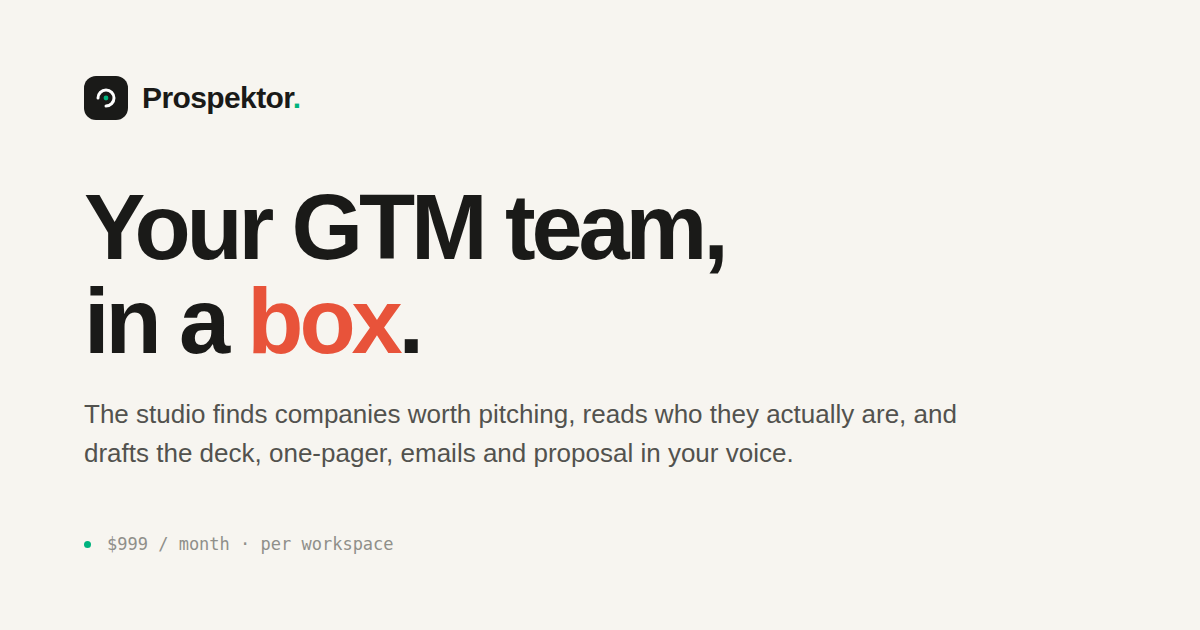
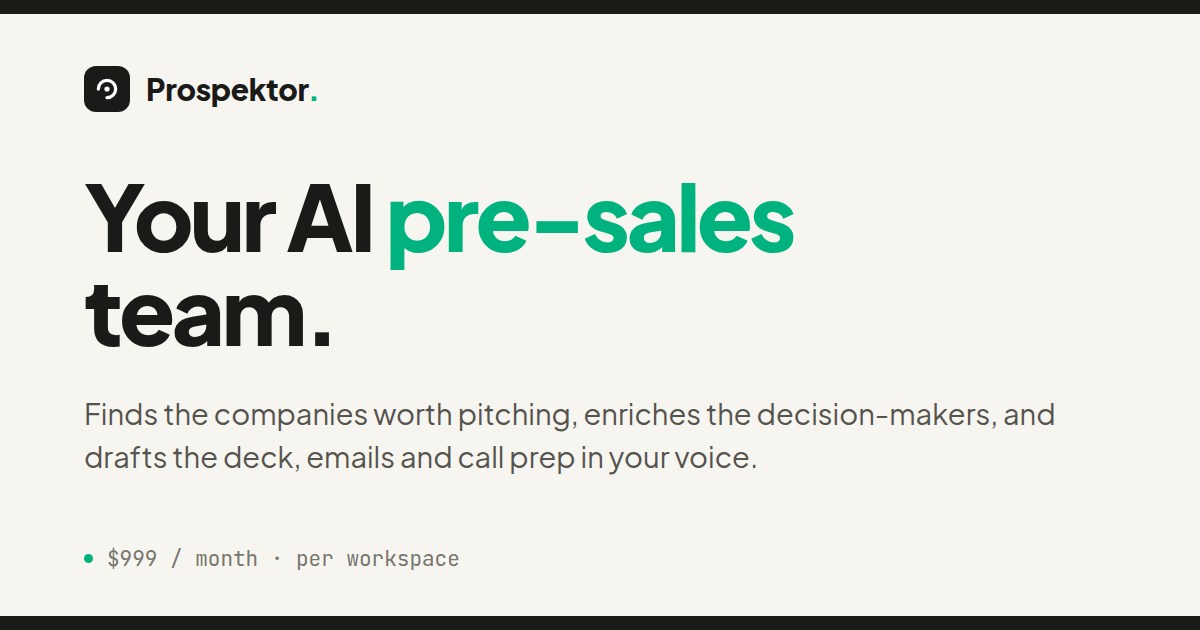
#78: the copy catches up to the product — AI pre-sales positioning, Prospektor Studio rename
The landing page was last written from the product on 16 Aug and stopped
being true of it: no Beast Mode batches, no call prep or inbound
evaluation, no warm paths or enrichment chips, and every surface still
said 'Partner Studio' (renamed 21 Aug, owed in the handover since).

- Repositioned per the operator's frames: pre-sales tool (BDR/SDR work),
  AE accelerator (dealflow velocity), AI-powered enrichment.
- Hero, proof strip, what's-in-the-box (now six cards), who-it's-for,
  pricing bullets and slogan card rewritten from the studio's README so
  every claim is true of the shipped product.
- 'Partner Studio' -> 'Prospektor Studio' everywhere: pages, checkout
  order card, Stripe product name, welcome email, package.json, legal
  page ledes. Privacy §01's agency-era 'go-to-market infrastructure for
  funded startups' corrected to what Prospektor sells today.
- og.png regenerated with the new headline, on the site's real emerald
  accent (the old card's coral drifted from the served hero).
- .wc grid borders generalized so the box grid takes any even card count.

54 function tests green, drive 22/22.

diff --git a/netlify/functions/stripe-webhook.js b/netlify/functions/stripe-webhook.js
@@ -280,7 +280,7 @@ async function sendWelcomeEmail(email) {
   if (!process.env.POSTMARK_SERVER_TOKEN) return;
 
   const textBody = [
-    'Your Prospektor Partner Studio is ready.',
+    'Your Prospektor Studio is ready.',
     '',
     'Sign in here: https://studio.prospektor.ai/?signin=' + encodeURIComponent(email),
     'Sign in with Google, using this address — the one you paid with — or have the studio email you a sign-in link from that page. Either way, that is the whole setup.',
@@ -312,7 +312,7 @@ async function sendWelcomeEmail(email) {
     <p style="font-size:13px;color:${BRAND.inkFaint};line-height:1.65;margin:20px 0 0;">
       Paid with your work email? Every colleague on your domain can sign in the same way.
     </p>`,
-    'You&#39;re getting this one email because you started a Prospektor Partner Studio. Questions? Just reply — it reaches a human at hello@prospektor.ai.');
+    'You&#39;re getting this one email because you started a Prospektor Studio. Questions? Just reply — it reaches a human at hello@prospektor.ai.');
 
   await sendMail({ to: email, subject: 'Your studio is ready — sign in', textBody, htmlBody });
 }

diff --git a/src/assets/css/main.css b/src/assets/css/main.css
@@ -391,9 +391,10 @@ nav {
   transition: background .2s;
 }
 .wc:hover { background: var(--off-white); }
-.wc:nth-child(1) { border-right: 1px solid var(--border); border-bottom: 1px solid var(--border); }
-.wc:nth-child(2) { border-bottom: 1px solid var(--border); }
-.wc:nth-child(3) { border-right: 1px solid var(--border); }
+/* Any even number of cards in two columns: odd cards carry the column rule,
+   every card above the last row carries the row rule. */
+.wc:nth-child(odd) { border-right: 1px solid var(--border); }
+.wc:not(:nth-last-child(-n+2)) { border-bottom: 1px solid var(--border); }
 
 .wc-n {
   font-family: var(--mono); font-size: 0.65rem; color: var(--ink-faint);
@@ -973,6 +974,8 @@ footer {
   .section { padding: 4rem 1.25rem; }
   .what-layout, .how-layout, .ai-layout { grid-template-columns: 1fr; gap: 2.5rem; }
   .what-grid { grid-template-columns: 1fr; }
+  .what-grid .wc { border-right: none; }
+  .what-grid .wc:not(:last-child) { border-bottom: 1px solid var(--border); }
   .who-grid { grid-template-columns: 1fr; }
   .proof { grid-template-columns: 1fr 1fr; }
   .proof-item:nth-child(2n) { border-right: none; }

diff --git a/netlify/functions/create-checkout-session.js b/netlify/functions/create-checkout-session.js
@@ -1,7 +1,7 @@
 // Opens Stripe Checkout — for the pricing tile's one-field buy form and for
 // the /checkout/ payment step alike.
 //
-// One product, one price: a Prospektor Partner Studio workspace, $999/month,
+// One product, one price: a Prospektor Studio workspace, $999/month,
 // as a subscription (CEO decision, 16 Aug 2026). The price is inline
 // price_data so no dashboard product needs to exist; promotion codes are on
 // so founding-client rates are coupons the operator creates in the Stripe
@@ -124,7 +124,7 @@ exports.handler = async function(event) {
     'line_items[0][price_data][currency]': 'usd',
     'line_items[0][price_data][unit_amount]': '99900',
     'line_items[0][price_data][recurring][interval]': 'month',
-    'line_items[0][price_data][product_data][name]': 'Prospektor Partner Studio — one workspace',
+    'line_items[0][price_data][product_data][name]': 'Prospektor Studio — one workspace',
     allow_promotion_codes: 'true',
     success_url: data.from === 'resubscribe' ? 'https://studio.prospektor.ai/' : site + '/checkout/done/',
     cancel_url: cancelUrl,
